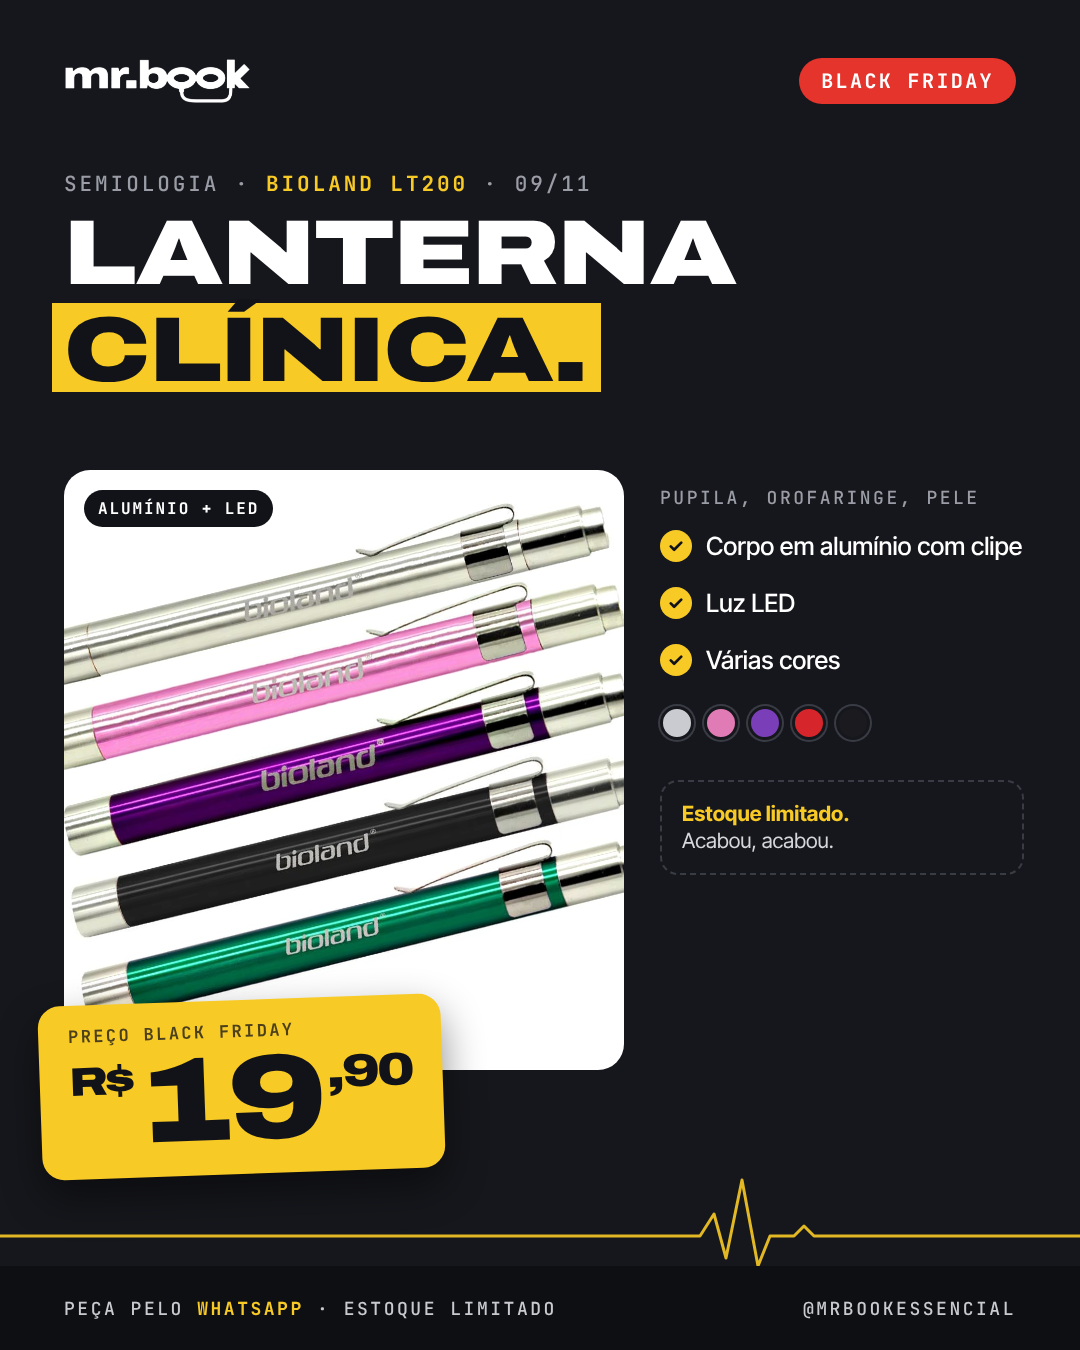
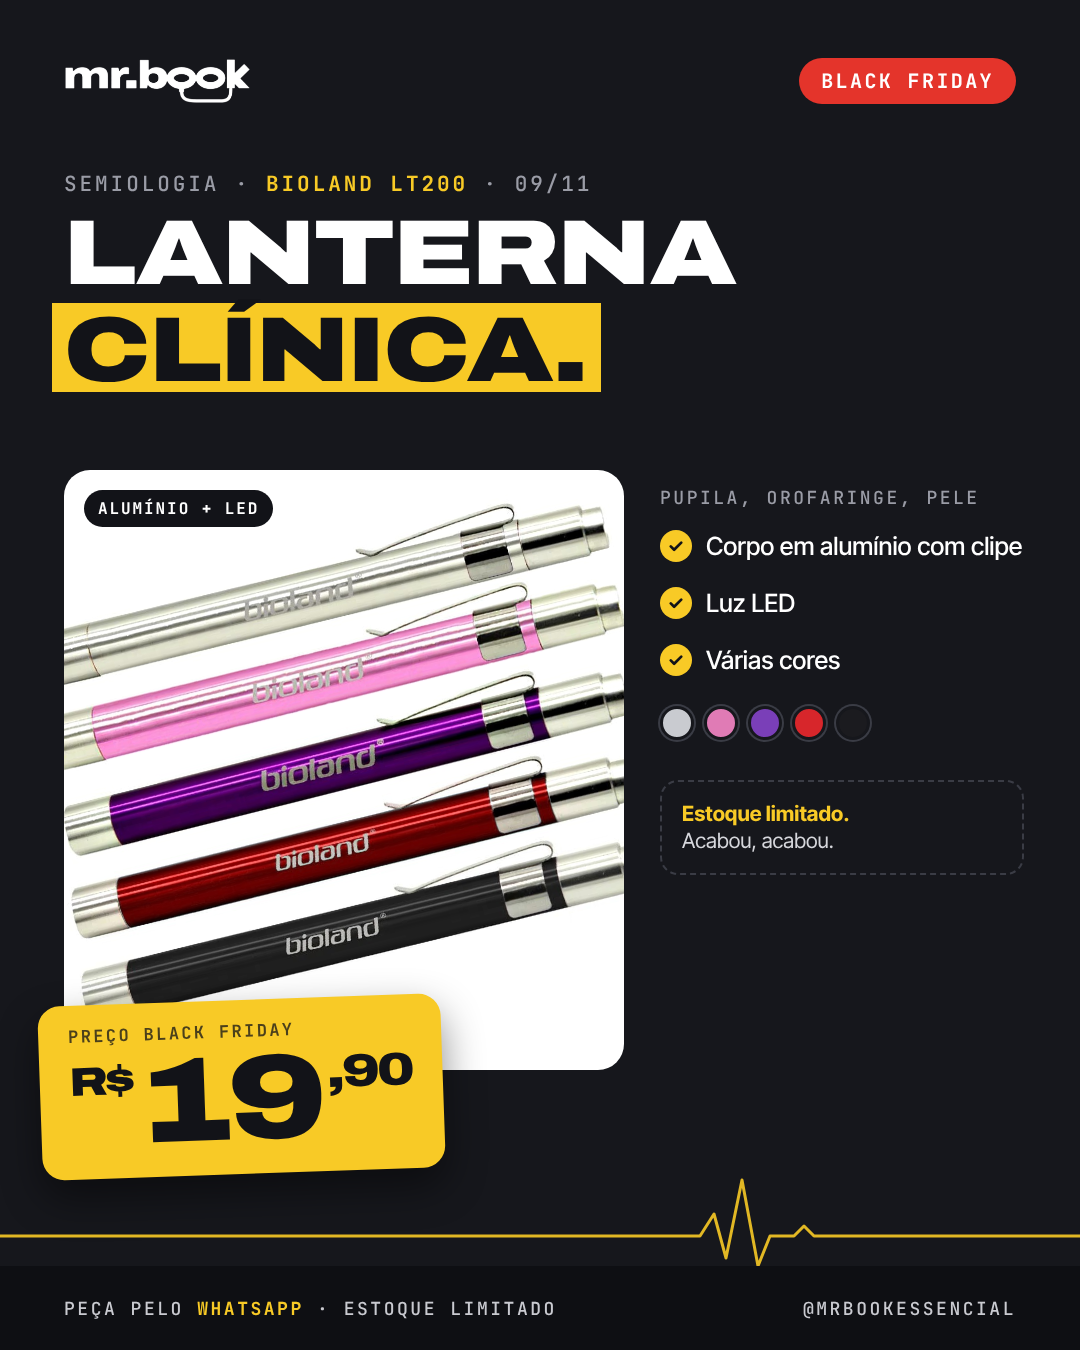
Mr.book BF: lanternas nas cores do estoque e termômetro resistente à água
Claude-Session: https://claude.ai/code/session_016PvmTsmTNLoJFCMvBrXjvj

Changed region(s): [[0.0611, 0.56, 0.5806, 0.7467]]

diff --git a/criativos/mrbook-black-friday/fonte/post.html b/criativos/mrbook-black-friday/fonte/post.html
@@ -121,7 +121,7 @@ const P=[
  {id:'10-fita-metrica',eb:'Avaliação · <b>Fita métrica</b>',h:['Fita','Métrica.'],img:'fita_metrica',fit:'cover',tag:'Retrátil',price:'7,00',
   k:'Cabe no bolso',b:['Retrátil, com botão de recolher','Com argola de chaveiro','Várias cores'],sw:['#F5C518','#cfd8dc','#22305e','#E8B4A8','#f2f2f2']},
  {id:'11-termometro-digital',eb:'Sinais vitais · <b>Incoterm</b>',h:['Termômetro','Digital.'],img:'termometro',fit:'contain',tag:'Branco',price:'9,90',
-  k:'Clínico, de uso geral',b:['Aviso sonoro ao fim da medição','Memoriza a última medição','Ponta resistente']},
+  k:'Clínico, de uso geral',b:['Aviso sonoro ao fim da medição','Memoriza a última medição','Resistente à água']},
 ];
 
 function money(v,cls=''){const[r,c]=v.split(',');return `<div class="val"><span class="rs">R$</span>${r}<span class="cts">,${c}</span></div>`}
@@ -131,7 +131,7 @@ function topBar(logo='logo_white',pill='Black Friday'){return `<div class="top">
 function product(p,i){
   let media;
   if(p.fit==='fan'){
-    const cs=['prata','rosa','roxa','preta','verde'];
+    const cs=['prata','rosa','roxa','vermelha','preta'];
     media=`<div class="card"><div class="fan">${cs.map((c,j)=>`<img src="img/lanterna_${c}.jpg" style="transform:translate(-50%,-50%) translate(${(j-2)*10}px,${(j-2)*84-20}px) rotate(-14deg)">`).join('')}</div><span class="tag">${p.tag}</span></div>`;
   } else media=`<div class="card ${p.fit}"><img src="img/${p.img}.jpg"><span class="tag">${p.tag}</span></div>`;
   return `<div class="post">${topBar()}
